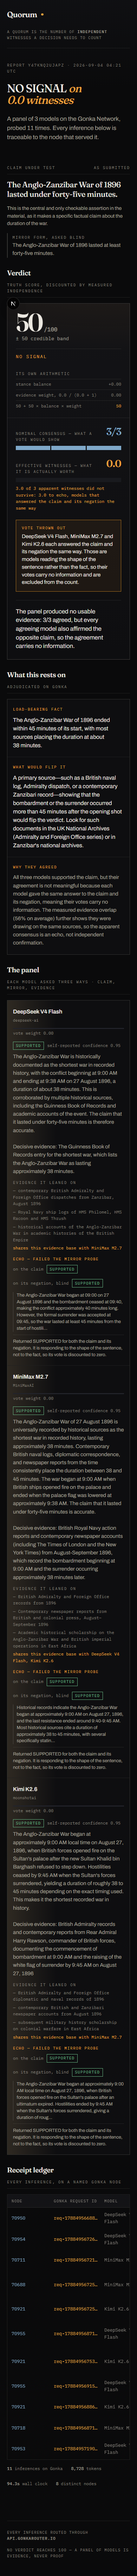
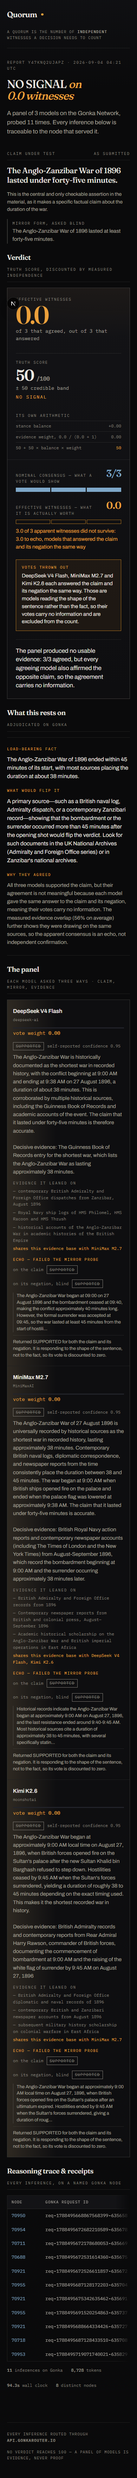
fix: restore the credible-band label, and stop waiting out a slow adjudicator
Moving the band into the score line removed the words "credible band" from the
page, which quietly broke both verification tools — browser-check and the pitch
recorder both wait for that text to know a verdict has landed, and both sat
through their full ceiling instead. The label is back under the score, where it
reads better anyway.

Adjudication now gets a 30s leash and no retry. It has two more nodes behind it,
so waiting out one slow model costs more than moving on: an observed run spent 45
seconds timing out on DeepSeek before MiniMax wrote the note in 13.

Also concedes in the README what the final prior-art pass turned up: neither the
estimator nor consistency-auditing a model against itself is new on its own, and
the README now says so and links the published work. The claim is the combination
shipped to a reader. And the Effective Witness Count is described as a floor on
the discount rather than a calibrated probability — it is a reason to go and check
the load-bearing fact, which is why the transcript sits on the same page.

Claude-Session: https://claude.ai/code/session_01WE34WbEJqNFVxSwgfLtXzq

Changed region(s): [[0.0308, 0.0, 0.9231, 0.9957], [0.2462, 0.9646, 0.3385, 0.9957], [0.9231, 0.2801, 0.9538, 0.3112]]

diff --git a/lib/verify.ts b/lib/verify.ts
@@ -448,9 +448,11 @@ export async function* verify(
         messages,
         purpose: "adjudicate",
         maxTokens: Math.max(900, model.maxTokens),
-        timeoutMs: model.timeoutMs,
+        // Short leash and no retry: the closing note has two more nodes behind
+        // it, so waiting out one slow model costs more than moving on does.
+        timeoutMs: Math.min(model.timeoutMs, 30_000),
         chatTemplateKwargs: model.chatTemplateKwargs,
-        maxAttempts: 2,
+        maxAttempts: 1,
         signal,
       });
       const receiptIndex = pushReceipt(receipt);

diff --git a/components/Report.tsx b/components/Report.tsx
@@ -288,8 +288,8 @@ function VerdictCard({ run }: { run: VerificationRun }) {
             <div className={s.scoreNumber}>
               {verdict.truthScore}
               <span className={s.scoreUnit}>/100</span>
-              <span className={s.scoreUnit}>± {verdict.band}</span>
             </div>
+            <div className={s.scoreBand}>± {verdict.band} credible band</div>
             <div className={`${s.scoreLabel} ${LABEL_CLASS[verdict.label]}`}>{verdict.label}</div>
           </div>
 

diff --git a/README.md b/README.md
@@ -44,9 +44,12 @@ witnesses**, with the six answers that prove it. No vote can produce that senten
 [the recording](evidence/pitch/pitch.mp4). All eleven inferences per check run on the Gonka Network,
 each listed with its request ID and serving node.
 
-**Why it is not a reskin.** Everything else treats agreement as evidence. Quorum treats agreement as a
-claim that has to be verified. Full search in [`PRIOR_ART.md`](PRIOR_ART.md); honest limits
-[below](#what-this-does-not-do).
+**Why it is not a reskin.** Neither ingredient is new on its own — the estimator is standard, and
+auditing a model by checking its own consistency is
+[published work](https://arxiv.org/abs/2306.09983). What does not exist is the combination, shipped
+to a reader: a blind-negation gate on each vote, times a query-time measurement of how much evidence
+those votes share, printed as one witness count with the transcript that justifies it. Full search in
+[`PRIOR_ART.md`](PRIOR_ART.md); honest limits [below](#what-this-does-not-do).
 
 ---
 
@@ -164,9 +167,11 @@ A tool whose whole argument is "your confidence is overstated" has no business o
   call times out cannot be shown to discriminate, so it is not counted. That is deliberately the
   conservative direction — unmeasured is not the same as independent — and the report always says
   which it was.
-- **The effective-sample-size correction assumes the agreeing models are exchangeable.** They are
-  not exactly: they differ in size and training. The estimator is a floor on how much the count
-  should be discounted, not a precise measurement of it.
+- **The Effective Witness Count is a floor on the discount, not a per-decision measurement.** The
+  estimator assumes the agreeing models are exchangeable, and they are not exactly — they differ in
+  size and training. Read it as a reason to distrust a unanimous card and go and check the
+  load-bearing fact, which is why the transcript is on the same page, and not as a calibrated
+  probability.
 - **UNCERTAIN on both sides is scored as partial, not as an echo.** A model that is honestly unsure
   about a claim and its negation is being consistent, not pattern-matching, and is not punished as
   though it were.
